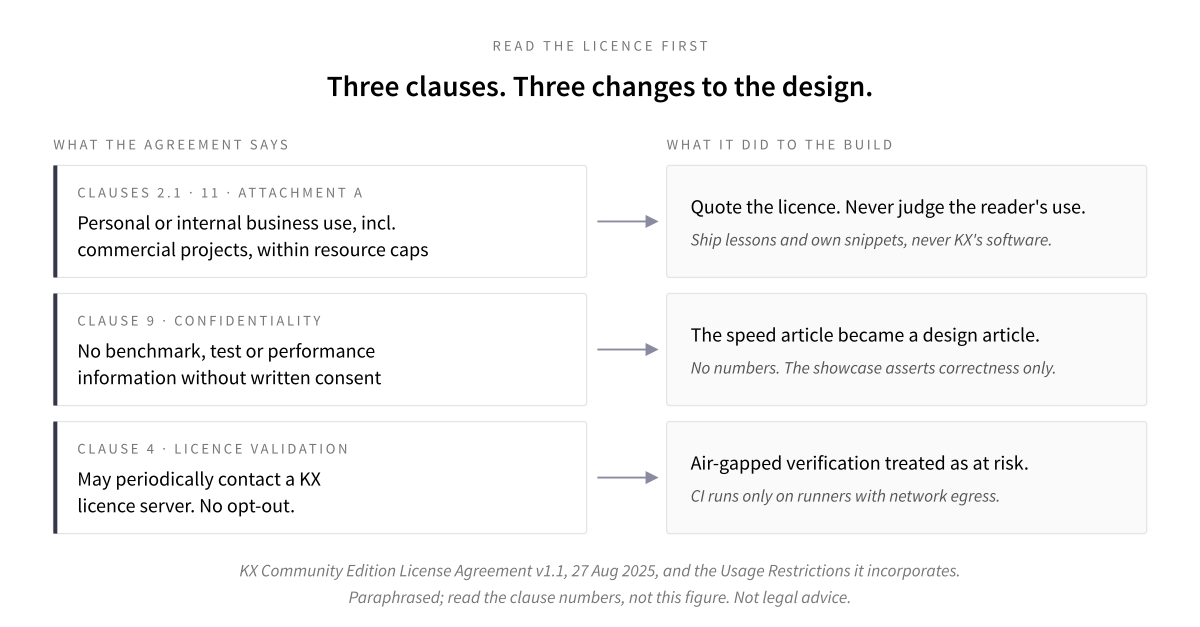
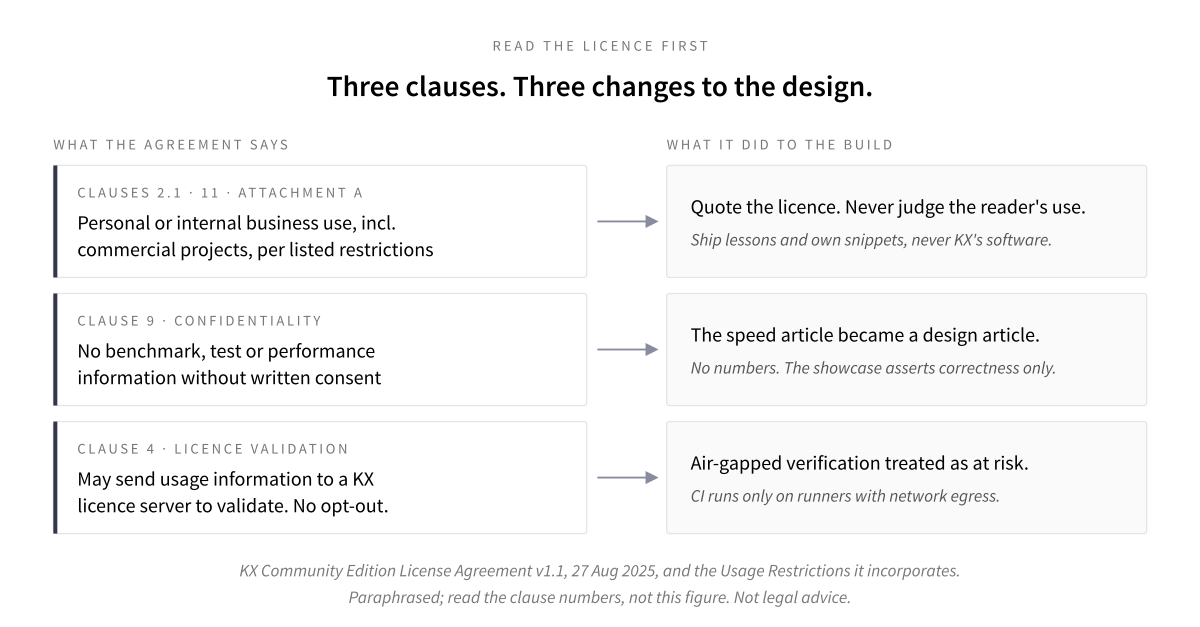
writings/02: act on Codex adversarial review (whole article)
Run with CODEX_POLICY_OVERRIDE=user-requested-adversarial-review, requested by
the user before publishing. All four findings verified against the agreement:
- Clause 9: drop the claim that it leaves correctness tests alone; it names
  "test" information and has no carve-out. No timing is a risk choice.
- The Usage Restrictions are not only resource caps: they also bar
  circumvention (several registrations, GPU staging) and install on servers
  licensed for commercial support. "Within the caps" becomes "subject to the
  listed restrictions" in the article, figure, README, SPEC, CLAUDE.md, notes.
- Clause attribution: Attachment A defines "Usage Restrictions"; the conflict
  rule is Clause 12, not 11.
- Clause 4 is quoted in full: validation sends usage information, so
  declining telemetry does not stop it. Figure 1 row 3 follows.

Claude-Session: https://claude.ai/code/session_01PtEeakS7v3dxuvGTPz8cdi

Changed region(s): [[0.0925, 0.7576, 0.3392, 0.8182], [0.2158, 0.3939, 0.37, 0.4242]]

diff --git a/writings/02-kdb-x-licensing-maze.md b/writings/02-kdb-x-licensing-maze.md
@@ -18,7 +18,7 @@ of the Makefile, and the reading changed the design in three separate places.
 This is what I found, why the order I found it in mattered, and the three moments where a source I
 trusted turned out to be wrong. One of those sources was my own first reading.
 
-![Three rows pairing licence clauses with design changes. Clauses 2.1 and 11 and Attachment A, personal or internal business use, including commercial projects within resource caps: quote the licence and never judge the reader's use. Clause 9, no benchmark, test or performance information without written consent: the speed article became a design article with no numbers. Clause 4, periodic licence validation with no opt-out: air-gapped verification treated as at risk, CI only on runners with network egress.](figures/02/figure-1-three-findings.svg)
+![Three rows pairing licence clauses with design changes. Clauses 2.1 and 11 and Attachment A, personal or internal business use, including commercial projects, subject to listed restrictions: quote the licence and never judge the reader's use. Clause 9, no benchmark, test or performance information without written consent: the speed article became a design article with no numbers. Clause 4, usage information may be sent to a KX licence server for validation, with no opt-out: air-gapped verification treated as at risk, CI only on runners with network egress.](figures/02/figure-1-three-findings.svg)
 
 *Figure 1. Three clauses, three changes to the design. Paraphrased: the clause numbers are the
 authority, not the figure.*
@@ -52,20 +52,24 @@ CE, ever.
 
 I had stopped one phrase too early. The same sentence of 2.1 continues "and subject to the Usage
 Restrictions", and in the agreement that phrase is a link. Clause 11 says the agreement *and the
-Usage Restrictions* "form the complete agreement", and defines the Restrictions as whatever was
-"described at the point where this Agreement was presented to you": a web page, not a clause. The
+Usage Restrictions* "form the complete agreement", and Attachment A defines the Restrictions as
+whatever was "described at the point where this Agreement was presented to you": a web page, not a
+clause. The
 link now redirects to KX's documentation home page. The Internet Archive's copies of the linked page
 from April and June 2026 say only that it has moved, and point to KX's Usage Restrictions page. The
 archived copies of *that* page from 5 June and 14 August 2026, either side of the day my key was
 issued, say the same thing: the Community Edition licence "is free for both personal and commercial
-projects", subject to the resource caps listed under it. What the sign-up flow itself showed me
+projects", subject to the end-user restrictions listed under it. Those are resource caps (16 GB of
+RAM, one instance, 4 secondary threads and 16 connections per process, 24 cores in all), rules
+against getting round them (several registrations, GPU workflows that stage data past the RAM
+limit), and a ban on installing it on servers licensed for commercial support. What the sign-up flow itself showed me
 that day, the archive cannot say; the page the agreement links to is the best evidence I have.
 
 Read whole, then, the licence grants **personal or internal-business use, including commercial
-projects, within the resource caps.** What it forbids is just as specific: making the software
+projects, subject to that list of restrictions.** What it forbids is just as specific: making the software
 available to third parties (2.1), building a product or service that "competes with, or provides
 the same or similar features" (2.1.xi), and revenue-generating bundling without a separate OEM
-licence (2.2). Clause 11 also says the agreement's own terms take precedence over any conflicting
+licence (2.2). Clause 12 says the agreement's own terms take precedence over any conflicting
 document. I read "internal business use" and "commercial projects" as consistent, but that is my
 reading, not a ruling.
 
@@ -105,15 +109,21 @@ never really the story. The honest story is **co-design** — what changes when 
 storage engine are built around one primitive — and that argument needs no numbers at all. The
 constraint forced a better article.
 
-One thing the clause does *not* touch: the repo's `aj` showcase asserts **correctness**. Its golden
-file pins output, never timing. That distinction is what lets the technical material survive intact.
+One thing I do not claim: that the clause leaves correctness tests alone. Its words cover "test"
+information too, and it has no carve-out for tests that check answers rather than time them. The
+repo's `aj` showcase pins output, never timing, and every article is written without speed claims.
+That is my scope choice to keep risk low, not a reading that Clause 9 permits it; only KX's written
+consent, or a lawyer, could settle that.
 
 ## Finding 3: it phones home, and that shapes your CI
 
 Two separate mechanisms, and conflating them is easy:
 
 - **License validation — mandatory.** Clause 4 reserves that the software "may periodically
-  communicate with a license manager application running on a KX server". No opt-out. Whatever the
+  communicate with a license manager application running on a KX server by sending usage
+  information to it to confirm that you have a valid license". The same clause limits that
+  information to KX's own licence management. No opt-out, so declining telemetry (below) does not
+  stop it. Whatever the
   observed runtime behaviour, the license *reserves* the call.
 - **Usage telemetry — opt-in and separate.** A distinct consent prompt at install, covering
   analytics and "potential interest in our products". Declinable, reversible, unrelated to the

diff --git a/docs/licensing-notes.md b/docs/licensing-notes.md
@@ -123,7 +123,7 @@ stricter preview" is superseded: the stricter text IS the license. The earlier J
 concern was correct.)
 
 - ~~**Commercial use — NO. Personal / internal-business only.**~~ **CORRECTED 2026-09-27: personal
-  or internal-business use, including commercial projects, within the resource caps** — see
+  or internal-business use, including commercial projects, subject to the listed restrictions** — see
   "Usage Restrictions — what the agreement incorporates" below. The original bullet follows, kept for
   the record; its conclusion is struck, its clause quotes stand. Clause 2.1 grants a "limited,
   non-transferable, non-exclusive license, without right of sublicense … solely for the Permitted
@@ -144,7 +144,9 @@ concern was correct.)
   is live in KDB-X CE, not just the old Personal Edition.** Direct hit on **the as-of-join article**
   (Article 4 since the 2026-07-28 renumber): it may NOT publish KDB-X performance
   numbers/benchmarks without written KX authorization. The `aj` **showcase
-  is unaffected** — its golden file asserts *correctness/output*, not performance. That article must
+  asserts *correctness/output*, not performance** — ~~is unaffected~~ (CORRECTED 2026-09-27: Clause 9
+  also names "test" information and has no correctness carve-out; no timing is a risk-reduction
+  choice, not a reading that the clause permits publishing tests). That article must
   reframe to design/semantics/co-design (SPEC already leans this way) OR obtain written consent.
 - **Liability cap US$100** (Clause 7); **governing law New York** (Clause 15).
 - **Term: indefinite, terminable at-will by KX on email/website notice** (Clause 10) — NOT the fixed
@@ -164,7 +166,7 @@ Raised by a Codex adversarial review of article 2 (2026-09-25); checked first-ha
 - **The hook.** Clause 2.1 grants use "solely for the Permitted Use **and subject to the Usage
   Restrictions**". Clause 11: "This Agreement and the Usage Restrictions form the complete agreement".
   Attachment A: "Usage Restrictions" means "any limitations or restrictions on use of the Software
-  described at the point where this Agreement was presented to you". Clause 11 also says the
+  described at the point where this Agreement was presented to you". Clause 12 (Conflict) says the
   agreement's terms "take precedence in the event of any conflict with any other document".
 - **The link.** In the agreement, "Usage Restrictions" links to
   `https://docs.kx.com/product/licensing/usage-restrictions.htm`. Live today it 301s to the
@@ -187,11 +189,11 @@ Raised by a Codex adversarial review of article 2 (2026-09-25); checked first-ha
   https://code.kx.com/licensing/usage-restrictions.html (which itself has no Wayback capture). The
   earliest capture, [2026-04-13](https://web.archive.org/web/20260413151242/https://code.kx.com/insights/1.18/licensing/usage-restrictions.html),
   already has the commercial sentence but says 8 connections and lacks the GPU rule.
-- **Reading.** Personal or internal-business use, **including commercial projects**, within the caps.
+- **Reading.** Personal or internal-business use, **including commercial projects**, subject to the full list of end-user restrictions above (caps and anti-circumvention rules, not caps alone).
   Still forbidden: making the software available to third parties (2.1), competing products
   (2.1.xi), revenue-generating bundling without an OEM licence (2.2), benchmark publication (Clause 9).
   "Internal business use" is commercial use, so the grant and the Restrictions read as consistent;
-  the Clause 11 conflict rule exists and is quoted rather than resolved for readers.
+  the Clause 12 conflict rule exists and is quoted rather than resolved for readers.
 - **Limits of the evidence.** The Wayback cannot show what the Developer Center sign-up flow itself
   displayed on 2026-07-23; the page the agreement links to is the best available evidence.
 - **Why Task Zero missed it.** It read the agreement's clauses, not the document the agreement
@@ -272,7 +274,7 @@ RESOLVED 2026-07-24 by reading the license (see "License terms — CONFIRMED"):
   performance numbers without written KX consent.**
 - ~~[EULA] unqualified commercial use?~~ → ~~**NO. Personal / internal-business only (Clause 2.1 /
   Attachment A). Drop any commercial-friendliness claim.**~~ → **CORRECTED 2026-09-27: personal or
-  internal-business use, including commercial projects, within the caps (Clause 2.1 + the Usage
+  internal-business use, including commercial projects, subject to the listed restrictions (Clause 2.1 + the Usage
   Restrictions incorporated by Clause 11). Say what the licence says; never judge the reader's use.**
 - ~~[install] runtime phone-home?~~ → **License RESERVES periodic validation (Clause 4); treat
   offline verification as at-risk.**

diff --git a/README.md b/README.md
@@ -112,8 +112,9 @@ Per the [KX Community Edition License Agreement](https://kx.com/legal/community-
 
 - Use is granted for **personal or internal-business purposes** (Clause 2.1), subject to KX's
   Usage Restrictions, which the agreement incorporates (Clause 11). They describe the Community
-  Edition as free for personal and commercial projects within resource caps (16 GB RAM, one
-  instance, 4 secondary threads, 16 connections). It is not a grant to distribute, sell or bundle
+  Edition as free for personal and commercial projects, subject to listed end-user restrictions
+  (resource caps such as 16 GB RAM, one instance, 4 secondary threads and 16 connections, plus rules
+  against circumventing them). It is not a grant to distribute, sell or bundle
   the software, or to build a competing product. What that means for your use is for you to judge.
 - **Publishing benchmark or performance figures requires KX's prior written consent** (Clause 9).
   This project therefore publishes **no benchmark or performance numbers, and no competitive

diff --git a/CLAUDE.md b/CLAUDE.md
@@ -24,7 +24,7 @@ Read SPEC.md first. It is the contract; this file is operational guidance.
 4. **Say what the KDB-X CE licence says; never tell readers what their own use permits.** The
    agreement grants personal or internal-business use (Clause 2.1 / Attachment A) subject to the
    Usage Restrictions it incorporates (Clause 11), which say CE is "free for both personal and
-   commercial projects" within resource caps. It forbids making the software available to third
+   commercial projects" subject to listed end-user restrictions (caps and anti-circumvention rules). It forbids making the software available to third
    parties, OEM bundling without a licence, and competing products, and restricts benchmark
    publication (Clause 9). Quote that with clause numbers; never shorten it to "free for commercial
    use" or "non-commercial" (both were wrong once here). Corrected 2026-09-27 — see

diff --git a/docs/COMPOUND.md b/docs/COMPOUND.md
@@ -820,7 +820,7 @@ grant is "subject to the Usage Restrictions", a hyperlink, and Clause 11 makes t
 part of the complete agreement. The link now redirects to a docs home page, but the Wayback chain
 still works: the linked page's April and June 2026 captures are a "moved" stub pointing at KX's
 Usage Restrictions page, and that page's captures of 5 June and 14 August 2026, either side of the
-key's issue date, say CE "is free for both personal and commercial projects" within resource caps.
+key's issue date, say CE "is free for both personal and commercial projects", subject to listed end-user restrictions.
 Evidence and snapshot URLs are in docs/licensing-notes.md. Article 2's Finding 1, its figure 1,
 CLAUDE.md rule 4, SPEC and the README changed with it. Rule 4 keeps its spirit, re-aimed: quote the
 licence, never tell a reader what their own use permits. Both one-line summaries, "free for

diff --git a/SPEC.md b/SPEC.md
@@ -127,7 +127,7 @@ already delivers it → publish the comparison, author nothing. Both are real fi
 
 - **J 9.7** (GPLv3, jsoftware) — `jconsole` headless; CI-safe; blocking checks.
 - **q via KDB-X Community Edition** (GA Nov 2025; **personal or internal-business use, including
-  commercial projects, within the resource caps** — Clause 2.1 / Attachment A plus the Usage
+  commercial projects, subject to the listed end-user restrictions** — Clause 2.1 / Attachment A plus the Usage
   Restrictions that Clause 11 incorporates; NOT redistribution, OEM bundling or competing products;
   **benchmark/performance publication prohibited without prior written KX consent** (Clause 9) —
   KX Community Edition License Agreement v1.1 (27 Aug 2025), see docs/licensing-notes.md. `.Q.lim`-confirmed caps:
